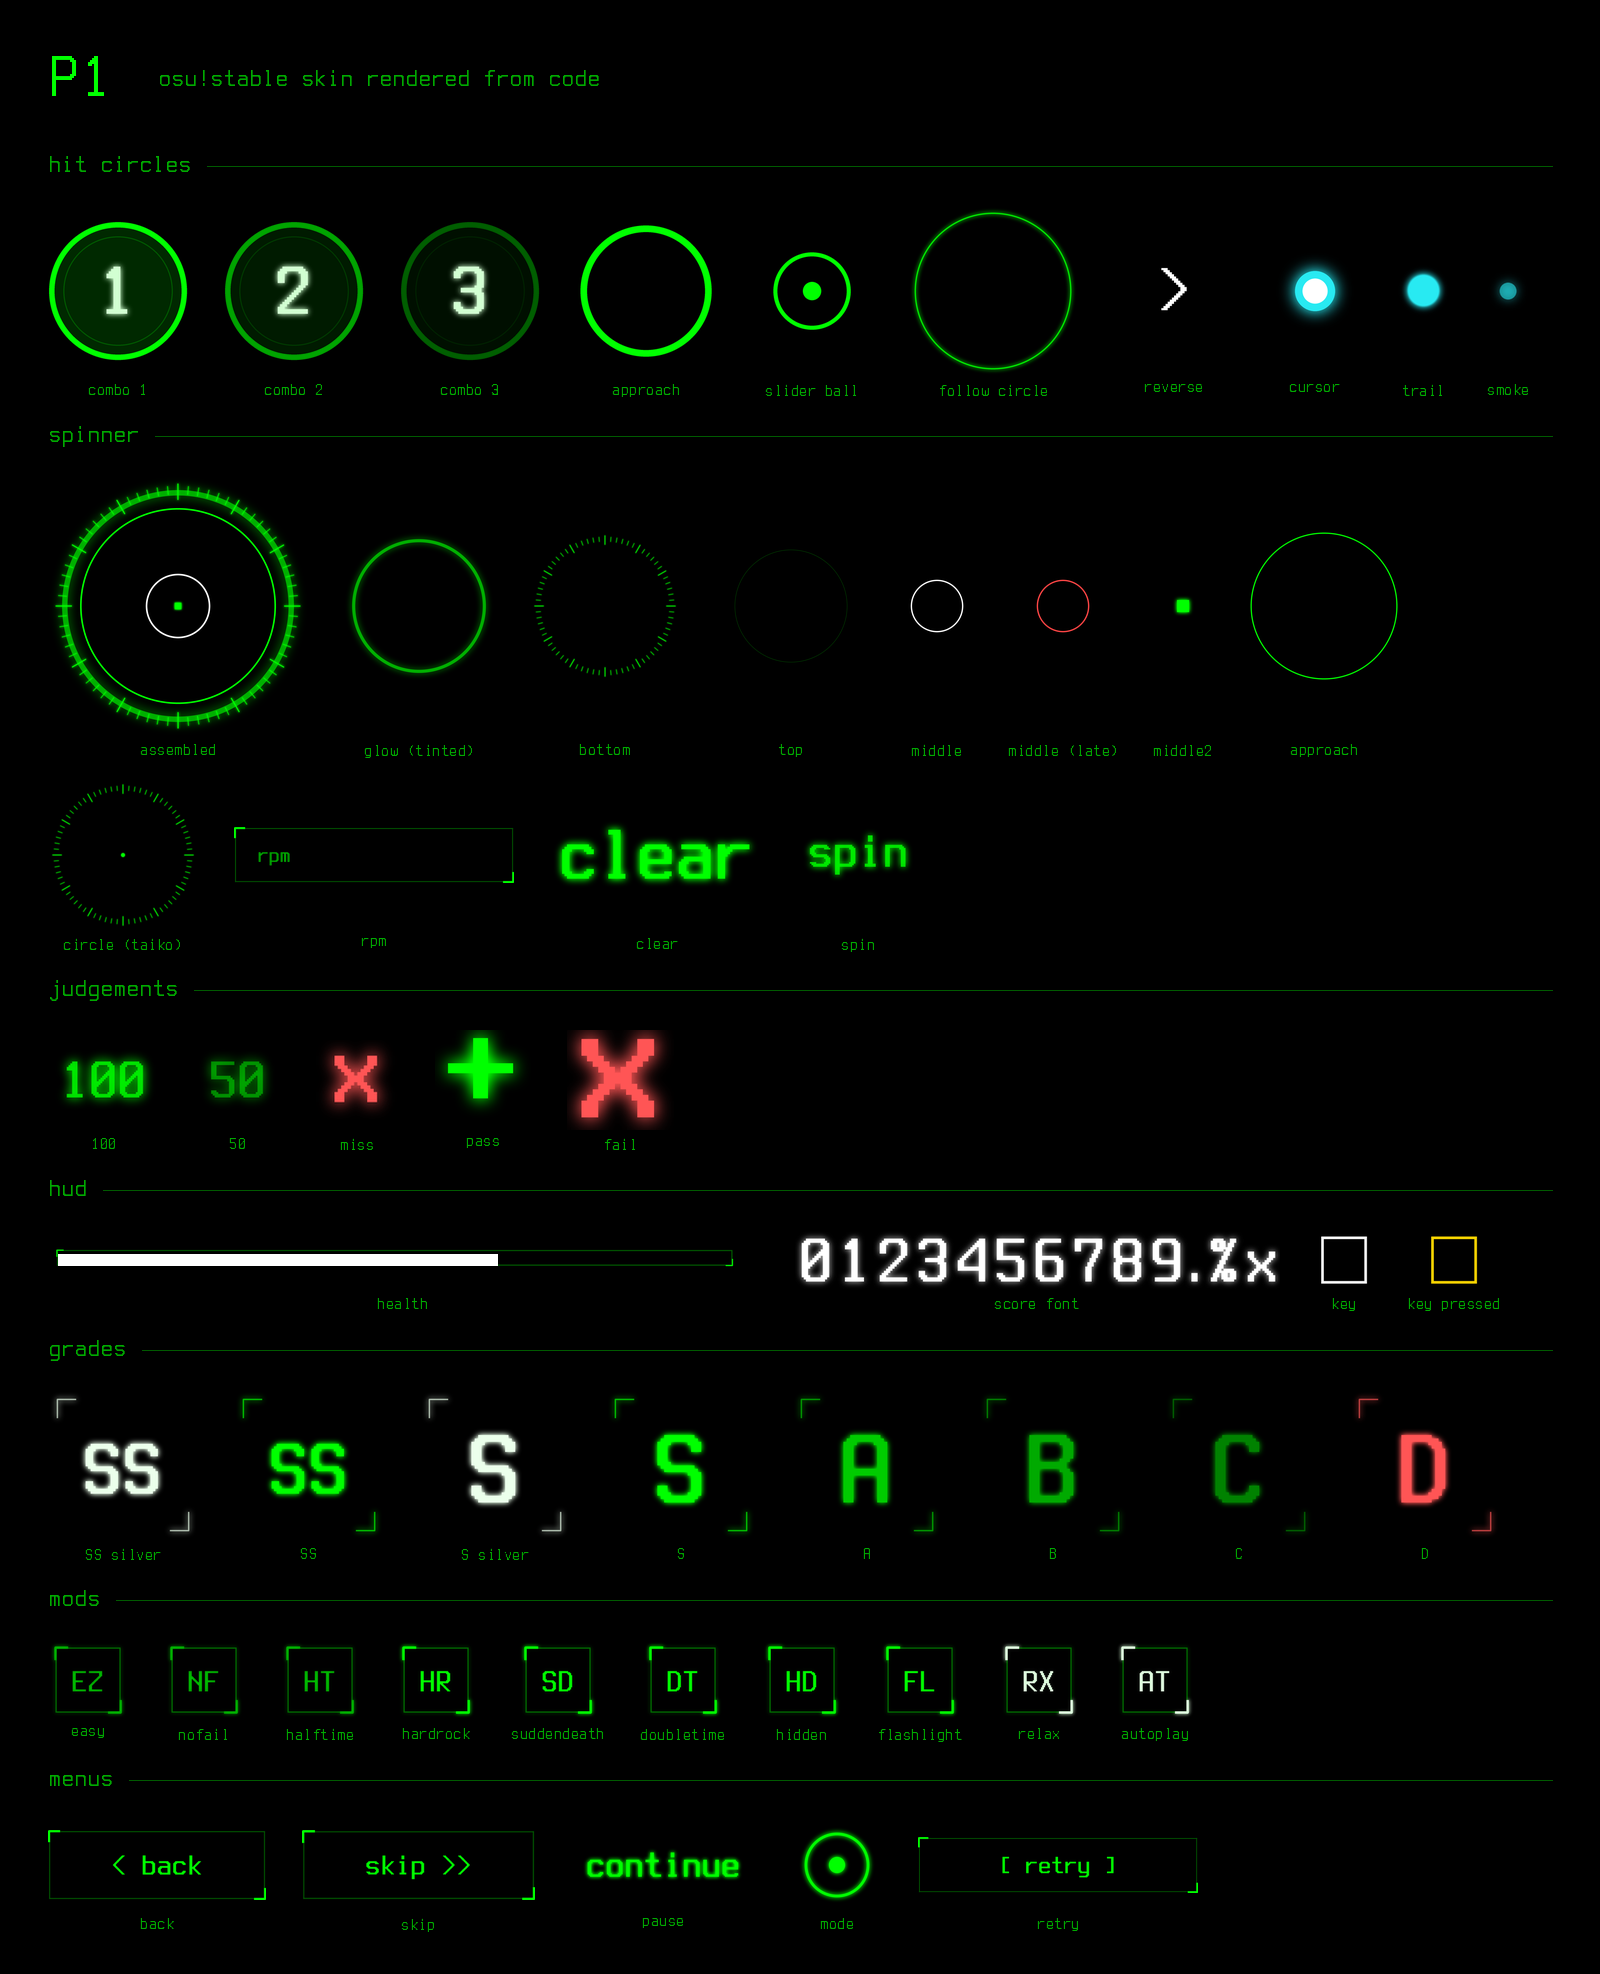
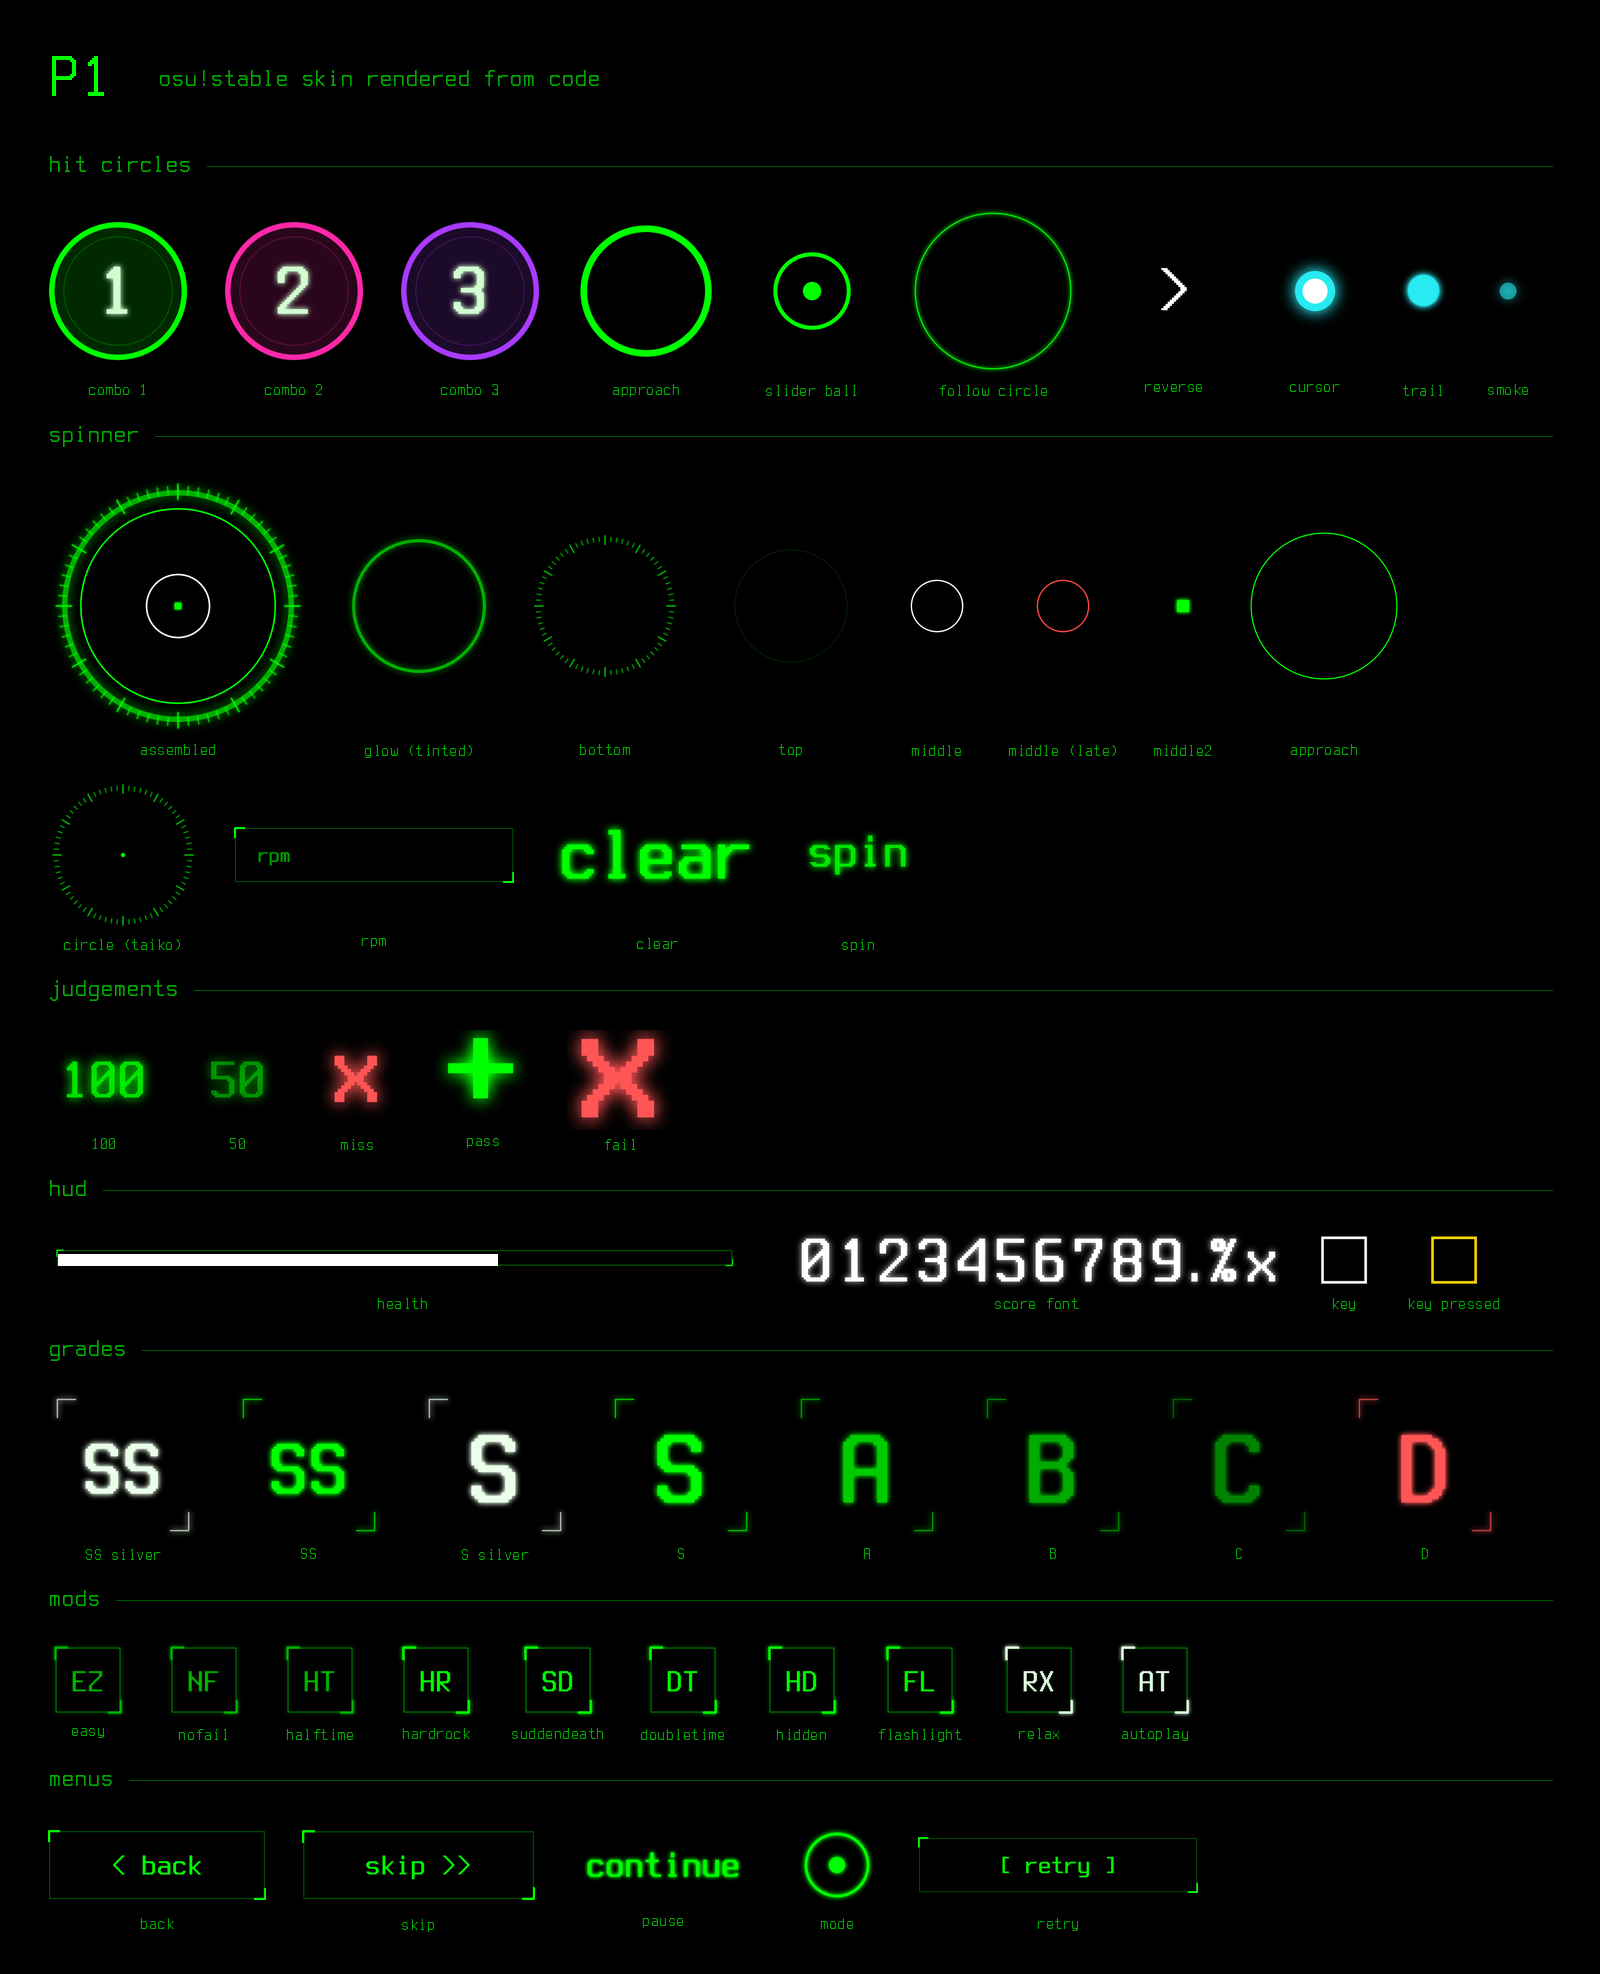
Combo colours: green, hot pink, violet

Changed region(s): [[0.125, 0.0927, 0.3438, 0.1854]]

diff --git a/preview.py b/preview.py
@@ -15,7 +15,7 @@ from PIL import Image, ImageDraw, ImageFont
 
 W = 1600
 PAD = 48
-COMBOS = [(0, 255, 0), (0, 165, 0), (0, 95, 0)]
+COMBOS = [(0, 255, 0), (255, 40, 170), (170, 60, 255)]
 LABEL = (0, 170, 0)
 DIM = (0, 90, 0)
 

diff --git a/gen.py b/gen.py
@@ -615,8 +615,8 @@ SpinnerNoBlink: 1
 
 [Colours]
 Combo1: 0,255,0
-Combo2: 0,165,0
-Combo3: 0,95,0
+Combo2: 255,40,170
+Combo3: 170,60,255
 InputOverlayText: 0,255,0
 MenuGlow: 0,255,0
 SliderBorder: 26,26,26
